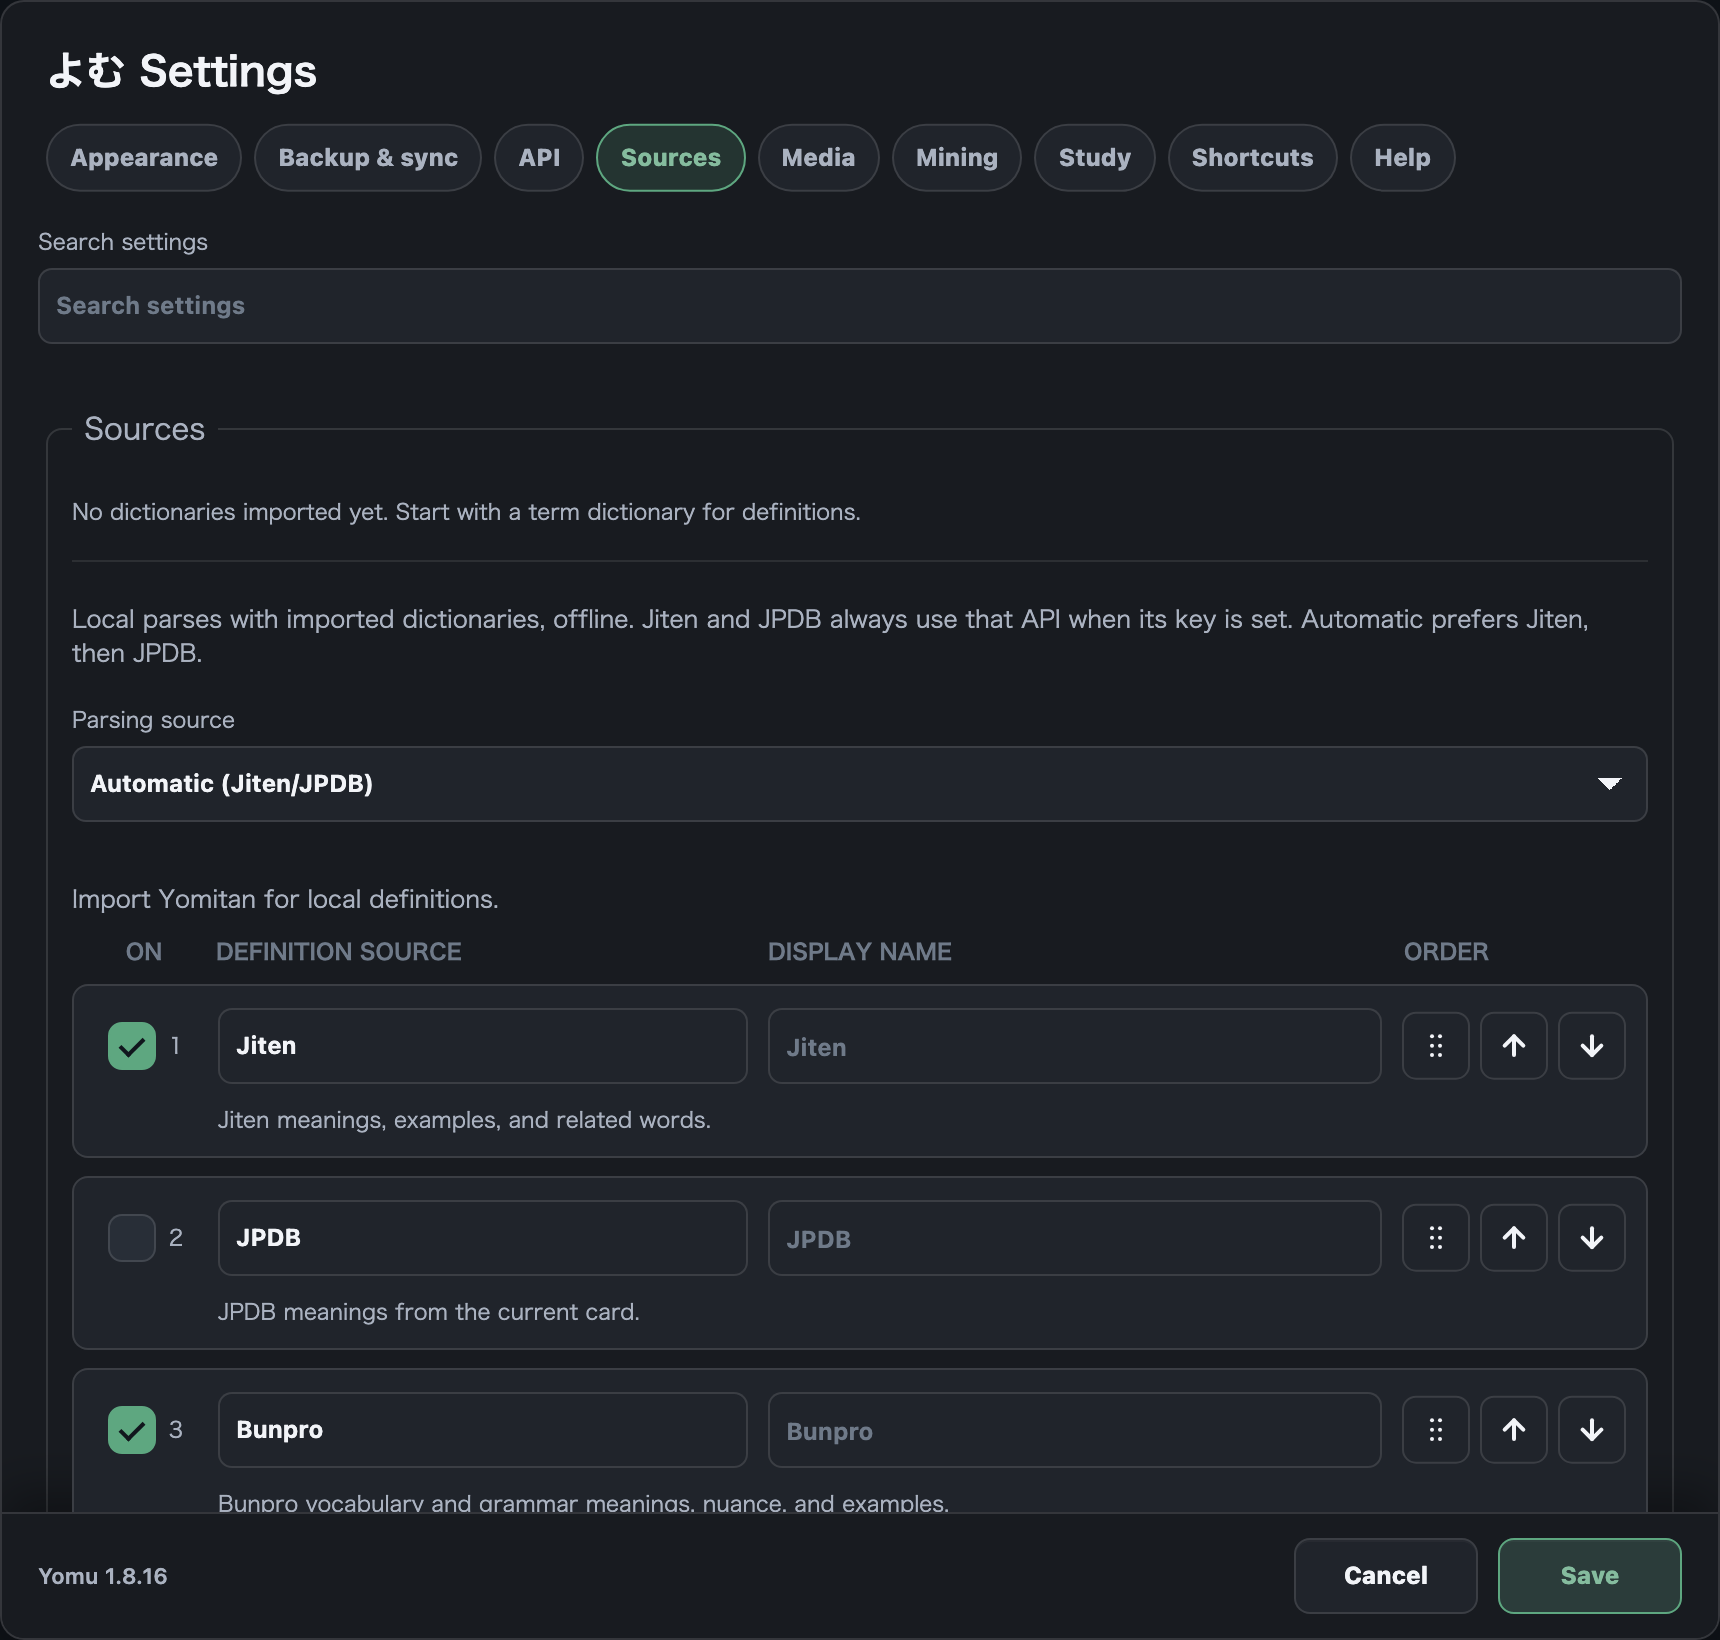
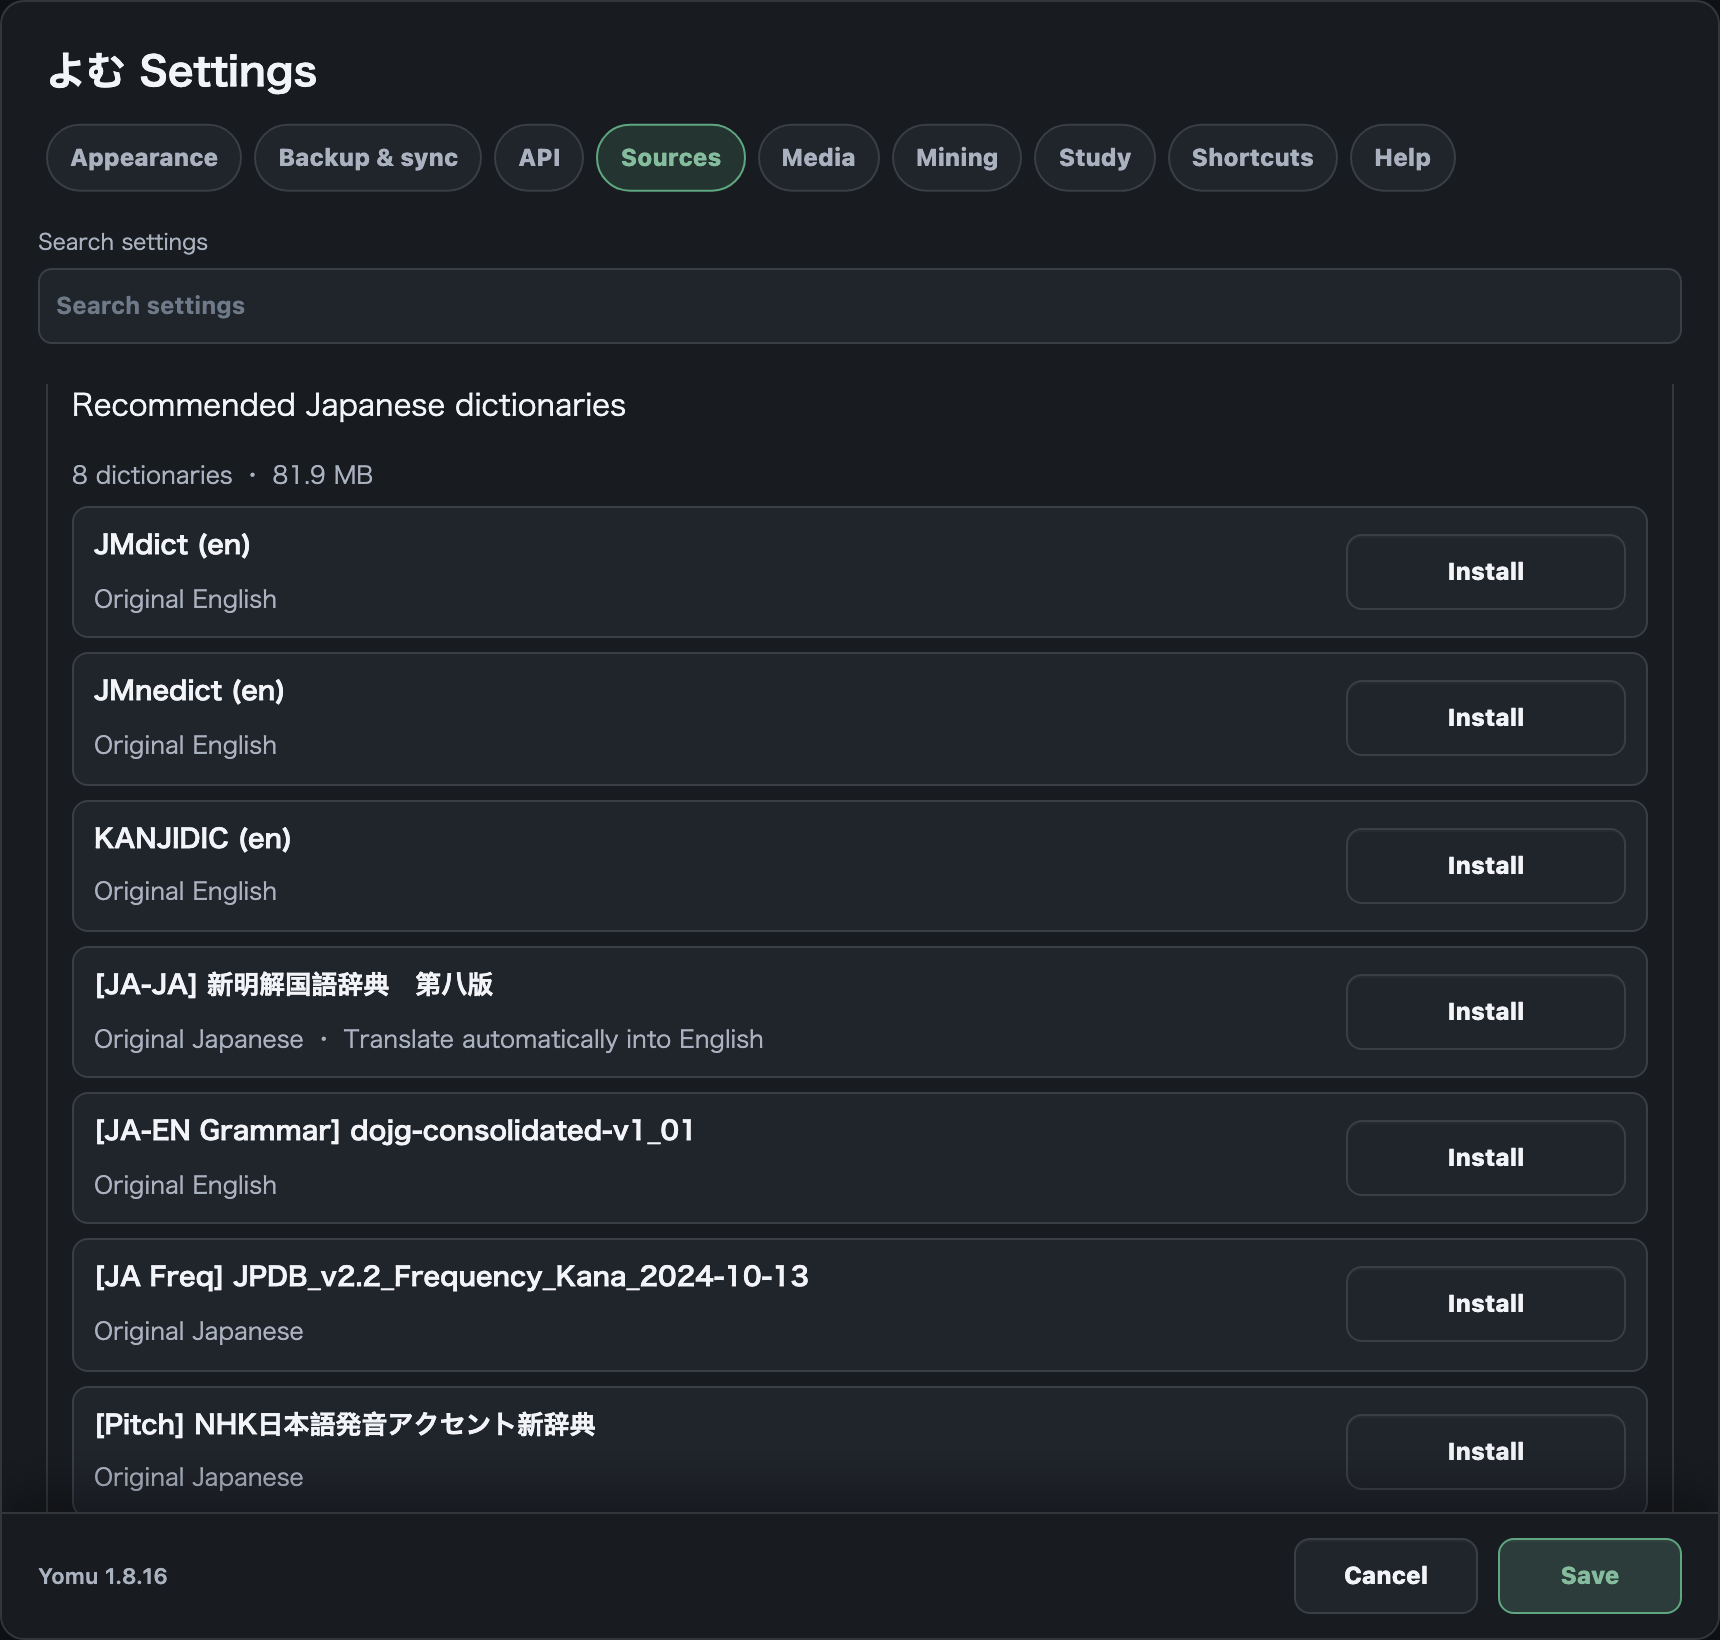
docs: make every screenshot show what its caption says
The recapture landed four pictures that contradicted the words beside
them. Each is fixed by capturing the state the caption describes, not by
softening the caption.

- real-popup-lookup.png is the home page's schema.org product screenshot
  and the lead image on three pages. It was scrolled past the headword,
  so the one thing a lookup screenshot exists to show - the word being
  looked up - was off frame. The popup body is a single scroller with a
  non-sticky header, so no scroll offset can frame both the headword and
  the translation; the shot now leads with the headword, reading, pitch
  graph, Jiten/JPDB rank pills, definition and grading row. The capture
  fails rather than saves if the headword is not in frame.

- real-kanji-drilldown.png showed an empty practice grid under the
  caption "live KanjiVG stroke data". The drilldown opens with the trace
  off so you draw from memory first; the capture now presses the
  product's own Show trace control, and a new validator refuses a shot
  with no glyph on the pad.

- real-dictionaries.png showed "No dictionaries imported yet" on two
  pages whose copy is about dictionaries. It is now framed on the
  recommended Japanese set - eight dictionaries, each with an Install
  button. The guard that was supposed to prevent an empty shell matched
  the built-in definition sources, so it passed on exactly the state it
  existed to reject; it now counts catalogue rows.
[…]

diff --git a/docs/.vitepress/theme/index.ts b/docs/.vitepress/theme/index.ts
@@ -1830,7 +1830,7 @@ const HOSTED_DOCS_JA_COPY: Record<string, string> = {
     'Plenty of learners use Jiten or JPDB for quick daily reviews': '多くの学習者は、毎日の手早い復習にJitenやJPDBを使い',
     'Anki for hand-crafted sentence cards. They are not mutually exclusive.': '手作りの文章カードにはAnkiを使っています。これらは互いに排他的ではありません。',
     'You do not choose a workflow up front — you read, and the popup gives every option at the moment a word matters.': 'ワークフローを最初に選ぶ必要はありません — 読み進め、ある単語が重要になった瞬間にポップアップがあらゆる選択肢を提示してくれます。',
-    'One popup, showing imported dictionary entries plus Jiten and JPDB state together.': '1つのポップアップに、インポートした辞書の項目とJiten・JPDBのステートをまとめて表示。',
+    'One popup: the definition, the Jiten and JPDB ranks, and a grade you can send — all on the same word.': '1つのポップアップに、語義とJiten・JPDBの頻度順位、そして送信できる採点まで。すべて同じ単語のまま。',
     'Use Yomitan dictionaries locally.': 'Yomitan辞書をローカルで使う。',
     'Import your Yomitan dictionary ZIPs or JMdict; the dictionaries stay in your browser and power instant definitions, with no upload anywhere.': 'Yomitan辞書のZIPやJMdictをインポートしましょう。辞書はブラウザ内に保存され、瞬時の語義表示を支えます。どこにもアップロードされません。',
     'Use Jiten as a study source.': 'Jitenを学習ソースとして使う。',
@@ -2322,7 +2322,7 @@ const HOSTED_DOCS_JA_COPY: Record<string, string> = {
     'Local dictionaries, study cards, audio, example sentences, OCR, PDFs, and subtitles all work from the same popup.': 'ローカル辞書、学習カード、音声、例文、OCR、PDF、字幕を同じポップアップから使えます。',
     'Dictionary lookup, mining, Anki cards, audio, example sentences, OCR, and subtitles all work from the same popup.': '辞書検索、マイニング、Ankiカード、音声、例文、OCR、字幕を同じポップアップから使えます。',
     'Start with simple popup lookup. Later, add Jiten or JPDB for review status, import Yomitan dictionary files for local definitions, or connect Anki when you want flashcards.': 'まずはシンプルなポップアップ検索から始められます。あとからJitenやJPDBの復習ステータス、Yomitan辞書のローカル定義、Anki連携を追加できます。',
-    'Popup lookup with live study data and mining controls.': 'ライブ学習データとマイニング操作つきのポップアップ検索。',
+    'Popup lookup: the word, its reading and pitch, live Jiten and JPDB ranks, and one row to grade it.': 'ポップアップ検索：単語と読み、ピッチ、JitenとJPDBのライブ頻度順位、そして採点ボタンが1列に。',
     'A free Japanese popup reader for Japanese text, manga, video subtitles, and mining.': '日本語テキスト、漫画、動画字幕、マイニング向けの無料日本語ポップアップリーダー。',
     'よむ includes an optional study page. Use the full address after opening that local or hosted page as a browser home page, new-tab page, or iPad Home Screen shortcut. It uses your accent color and tries Anki study words when AnkiConnect is reachable, then Jiten, then JPDB, then local dictionary words. A new install starts by sending you to Settings > Dictionaries so JMdict or another Yomitan ZIP can be downloaded into local browser storage.': 'よむには任意の学習ページがあります。ローカル版またはホスト版を開き、そのURLをホームページ、新しいタブ、iPadホーム画面に設定できます。アクセントカラーを使い、AnkiConnectが届く場合はAnki学習語、その後Jiten、JPDB、ローカル辞書語の順に表示します。',
     'Study supports a normal Word mode, a Recall mode that shows the meaning first and asks you to type or write the Japanese answer before grading, a Listen mode for pitch-accent perception, recall, and shadowing, and kanji study. Recall grades go through the same JPDB, Jiten, or Anki review path as the normal study card after the answer is revealed; Listen keeps a local pitch SRS that grows from the review words and local/common words already feeding the page.': '学習ページは通常のWordモード、意味を先に表示して採点前に日本語の答えを入力または手書きするRecallモード、ピッチアクセントの知覚・想起・シャドーイングを行うListenモード、漢字学習に対応しています。Recallは答えを表示した後、通常カードと同じJPDB、Jiten、Ankiの復習経路で採点します。Listenはページに入ってくる復習語やローカル/一般語から増えるローカルのピッチSRSを保持します。',
@@ -2574,7 +2574,7 @@ const HOSTED_DOCS_JA_COPY: Record<string, string> = {
     'The popup also has optional study helpers for the current sentence. The translation tool generates a plain sentence translation when you open that section, and the grammar tool highlights likely grammar patterns with short explanations and guide links. These tools are meant to help you keep reading, not to replace a dictionary or grammar textbook.': 'ポップアップには、表示中の文に対するオプションの学習支援ツールもあります。翻訳ツールはそのセクションを開いたときに対象文のプレーンな翻訳を生成し、文法ツールは考えられる文法パターンをハイライトして簡単な説明とガイドへのリンクを表示します。これらのツールは読書を続けるのを助けるためのものであり、辞書や文法教科書の代わりになるものではありません。',
     'よむ can import Yomitan dictionary ZIP files, Yomitan settings exports, and dictionary backups. Imported dictionaries stay local in your browser. If you do not have an API source or Anki connected, よむ can still use public lookup and local dictionary words for the study page after you download JMdict or import a Yomitan ZIP in Settings.': 'よむはYomitan辞書ZIP、Yomitan設定エクスポート、辞書バックアップをインポートできます。辞書はブラウザー内に保存されます。APIソースやAnkiに接続していなくても、SettingsでJMdictをダウンロードするかYomitan ZIPをインポートすれば、学習ページで公開検索とローカル辞書の単語を使えます。',
     'This is useful if you want native-language dictionaries, monolingual Japanese definitions, frequency dictionaries, kanji dictionaries, or pitch dictionaries without depending on a remote service for every lookup.': 'これは、検索のたびにリモートサービスに依存することなく、母国語の辞書、国語辞典（日本語一カ国語定義）、頻度辞書、漢字辞書、またはピッチアクセント辞書を使用したい場合に便利です。',
-    'Dictionary import and source ordering controls.': '辞書のインポートとソースの順序制御。',
+    'The recommended Japanese set in Settings → Sources: eight dictionaries, one Install each.': '設定 → ソースのおすすめ日本語セット：8つの辞書を、それぞれワンクリックでインストール。',
     'The speaker button tries your configured audio sources in order. The default setup uses public Japanese audio sources, Jiten and optional JPDB word audio, and browser text-to-speech as fallbacks. If you already use a Yomitan-style audio source, you can add it as a custom URL.': 'スピーカーボタンは、設定された音声ソースを順番に試します。デフォルト設定では、公開されている日本語音声ソース、Jitenと任意のJPDB単語音声、およびブラウザの音声合成（TTS）を代替用フォールバックとして使用します。すでにYomitanスタイルの音声ソースを使用している場合は、カスタムURLとして追加できます。',
     'Example sentences can come from Jiten/JPDB public example rows, Immersion Kit without an API key, or Nadeshiko when you add your own Nadeshiko key. You can also use Immersion Kit + Nadeshiko together; よむ blends the results in a stable order so the same word does not reshuffle every time you open it.': '例文は、Jiten/JPDBの一般公開されている例文行、APIキー不要のImmersion Kit、または自身のNadeshikoキーを追加した場合はNadeshikoから取得できます。Immersion KitとNadeshikoを併用することも可能です。よむは結果を安定した順序でブレンドするため、ポップアップを開くたびに同じ単語の例文がシャッフルされることはありません。',
     'Examples can show Japanese, translations, thumbnails, audio, and source filters. Settings let you choose categories, length limits, image visibility, translation visibility, playback speed, and one-time hover audio on desktop. To practice without seeing English immediately, turn on blurred example translations and reveal them only when you choose the translation.': '例文には日本語、翻訳、サムネイル、音声、ソースフィルターを表示できます。設定では、カテゴリ、長さ制限、画像の表示/非表示、翻訳の表示/非表示、再生速度、およびデスクトップでのホバー時の自動音声再生を選択できます。英語をすぐに目に入れずに練習したい場合は、例文の翻訳をぼかし、翻訳を選んだときだけ表示します。',

diff --git a/docs/features.md b/docs/features.md
@@ -32,8 +32,8 @@ Pitch stays attached to the vocabulary it actually describes. A word with an exa
 The popup also has optional study helpers for the current sentence. The translation tool generates a plain sentence translation when you open that section, and the grammar tool highlights likely grammar patterns with short explanations and guide links.
 
 <figure class="yomu-feature-shot">
-  <img :src="'/screenshots/real-popup-lookup.png'" alt="A よむ popup on a Japanese Wikipedia article, showing Jiten/JPDB state, pitch, definitions, translation, grammar, and mining controls.">
-  <figcaption>Popup lookup with live study data and mining controls.</figcaption>
+  <img :src="'/screenshots/real-popup-lookup.png'" alt="A よむ popup on a Japanese Wikipedia article, showing the headword 日本 with its reading and pitch graph, live Jiten and JPDB rank pills, the Jiten definition, related vocabulary, and the grading row.">
+  <figcaption>Popup lookup: the word, its reading and pitch, live Jiten and JPDB ranks, and one row to grade it.</figcaption>
 </figure>
 
 ## Yomitan Dictionaries
@@ -45,8 +45,8 @@ The frozen Slice 1 catalogue contains 186 entries backed by 167 unique, SHA-256-
 Parsing itself is local-first: with term dictionaries imported, よむ segments and annotates Japanese against your local dictionaries — deinflection, furigana, and pitch included — without contacting Jiten or JPDB. New installs get this by default, and **Settings → Sources → Parsing** switches between **Local dictionaries (offline)** and the Jiten/JPDB APIs. Installs from before this option keep API-first parsing until you switch. Dictionary downloads contact `dictionaries.yomureader.com`; subsequent lookups use the imported local copy. Opt-in automatic definition translation separately sends only selected definition or gloss text from the enabled source to Google Translate.
 
 <figure class="yomu-feature-shot">
-  <img :src="'/screenshots/real-dictionaries.png'" alt="The よむ Dictionaries settings panel showing imported dictionary controls and definition source ordering.">
-  <figcaption>Dictionary import and source ordering controls.</figcaption>
+  <img :src="'/screenshots/real-dictionaries.png'" alt="The よむ Sources settings panel showing the recommended Japanese dictionary set — JMdict, JMnedict, KANJIDIC, 新明解国語辞典, a grammar dictionary, JPDB frequency and NHK pitch — each row with an Install button.">
+  <figcaption>The recommended Japanese set in Settings → Sources: eight dictionaries, one Install each.</figcaption>
 </figure>
 
 ## Audio And Examples
@@ -198,6 +198,6 @@ On iPhone, iPad, and Android, the installed app opens as a standalone client and
 The Help tab includes quick links to the hosted tools and docs, GitHub issues, Discord, donation support, and a Factory Reset action that clears よむ settings, API keys, cached data, and imported dictionaries back to defaults.
 
 <figure class="yomu-feature-shot">
-  <img :src="'/screenshots/real-help-settings.png'" alt="The よむ Help settings tab with donation, issue reporting, GitHub, Discord, docs, video player, and Study links.">
+  <img :src="'/screenshots/real-help-settings.png'" alt="The よむ Help settings tab showing the version and update line, then buttons for Video Player, PDF Reader, Study, Docs, Factory Reset, Donate, Issues and Discord.">
   <figcaption>Support links live inside settings.</figcaption>
 </figure>

diff --git a/docs/guides/study-setup.md b/docs/guides/study-setup.md
@@ -71,8 +71,8 @@ This table is about *fit*, not "better" — each is excellent at the job it was 
 You do not choose a workflow up front — you read, and the popup gives every option at the moment a word matters.
 
 <figure class="yomu-feature-shot">
-  <img :src="'/screenshots/real-dictionaries.png'" alt="The よむ dictionary popup showing imported Yomitan dictionary entries alongside Jiten and JPDB state.">
-  <figcaption>One popup, showing imported dictionary entries plus Jiten and JPDB state together.</figcaption>
+  <img :src="'/screenshots/real-popup-lookup.png'" alt="The よむ lookup popup on 日本, with Yomu, Jiten, JPDB and Bunpro pills across the top, a dictionary definition below, and a grading row at the bottom.">
+  <figcaption>One popup: the definition, the Jiten and JPDB ranks, and a grade you can send — all on the same word.</figcaption>
 </figure>
 
 From a single lookup popup, よむ lets you:

diff --git a/scripts/manual/README.md b/scripts/manual/README.md
@@ -34,6 +34,7 @@ with `npm run <name>` when investigating the area it covers.
 | `manual:popover-actions` | Depends on live enrichment to render the action pills. |
 | `manual:reader-sites` | Injects into real Ttsu/Yatsu/YouTube pages. |
 | `manual:screenshots-real` | Captures real manga/reader pages in a persistent signed-in Chrome profile. |
+| `manual:screenshots-settings` | Recaptures the docs settings shots from the built userscript on a loopback server; needs no operator. |
 | `manual:settings-layout` | Mobile settings-layout guard, currently red; kept for manual triage. |
 | `manual:subtitle-live-compat` | Compat variant of the live subtitle site sweep. |
 | `manual:subtitle-live-sites` | Live subtitle/player discovery across real video sites. |
